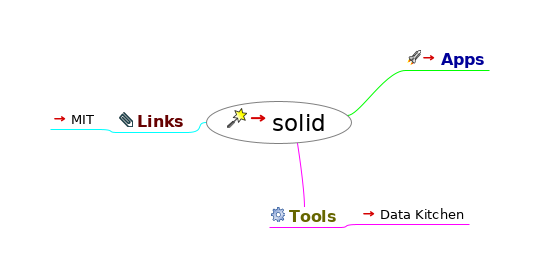
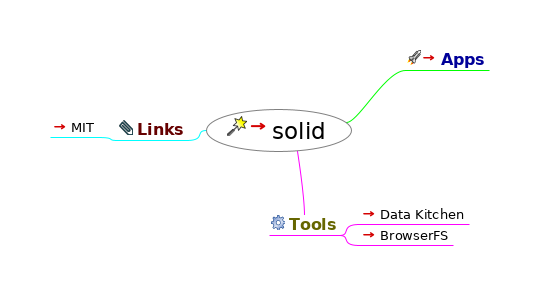
Add browserFS

diff --git a/index.html b/index.html
@@ -23,13 +23,14 @@
                    };
                };
           
-          --></script></head><body><h1>solid</h1><div style="width:96%;  padding:2%;  margin-bottom:10px;  border: 0px;  text-align:center;  vertical-align:center;"><img src="index.html_files/image.png" style="margin-bottom:10px; &#9;border: 0px; &#9;text-align:center; &#9;vertical-align:center;" alt="Imagemap" usemap="#fm_imagemap" /></div><map name="fm_imagemap" id="fm_imagemap"><area shape="rect" href="../tech/index.html" alt="solid" title="solid" coords="206,101,352,144" />
+          --></script></head><body><h1>solid</h1><div style="width:96%;  padding:2%;  margin-bottom:10px;  border: 0px;  text-align:center;  vertical-align:center;"><img src="index.html_files/image.png" style="margin-bottom:10px; &#9;border: 0px; &#9;text-align:center; &#9;vertical-align:center;" alt="Imagemap" usemap="#fm_imagemap" /></div><map name="fm_imagemap" id="fm_imagemap"><area shape="rect" href="../tech/index.html" alt="solid" title="solid" coords="206,109,352,152" />
 <area shape="rect" href="https://solidapps.org/" alt="Apps" title="Apps" coords="405,50,489,70" />
-<area shape="rect" href="#FMID_1810859973FM" alt="Tools" title="Tools" coords="269,207,340,227" />
+<area shape="rect" href="#FMID_1810859973FM" alt="Tools" title="Tools" coords="269,215,340,235" />
 <area shape="rect" href="https://github.com/solid/data-kitchen" alt="Data Kitchen" title="Data Kitchen" coords="359,206,469,224" />
-<area shape="rect" href="#FMID_777477932FM" alt="Links" title="Links" coords="117,112,187,132" />
-<area shape="rect" href="https://solid.mit.edu" alt="MIT" title="MIT" coords="50,111,98,129" />
+<area shape="rect" href="https://github.com/jvilk/BrowserFS" alt="BrowserFS" title="BrowserFS" coords="359,227,453,245" />
+<area shape="rect" href="#FMID_777477932FM" alt="Links" title="Links" coords="117,120,187,140" />
+<area shape="rect" href="https://solid.mit.edu" alt="MIT" title="MIT" coords="50,119,98,137" />
 </map>
 
-<div class="node"><img src="index.html_files/hide.png" class="hideshow" alt="hide" onClick="toggle(&quot;N65543&quot;)" id="imgN65543" /><img src="index.html_files/icons/wizard.svg" alt="wizard" /> <a id="FMID_237352286FM" /><div class="nodecontent" style="color:#000000;font-size:150%;"><a href="../tech/index.html">solid</a> <a href="../tech/index.html"><img src="index.html_files/ilink.png" alt="User Link" style="border-width:0" /></a></div><div class="content" id="N65543"><div class="node"><img src="index.html_files/leaf.png" class="hideshow" alt="leaf" /><img src="index.html_files/icons/launch.svg" alt="launch" /> <a id="FMID_527312312FM" /><div class="nodecontent" style="color:#000099;font-size:100%;font-weight:bold;"><a href="https://solidapps.org/">Apps</a> <a href="https://solidapps.org/"><img src="index.html_files/ilink.png" alt="User Link" style="border-width:0" /></a></div></div><div class="node"><img src="index.html_files/hide.png" class="hideshow" alt="hide" onClick="toggle(&quot;N66490&quot;)" id="imgN66490" /><img src="index.html_files/icons/executable.svg" alt="executable" /> <a id="FMID_1810859973FM" /><div class="nodecontent" style="color:#666600;font-size:100%;font-weight:bold;">Tools</div><div class="content" id="N66490"><div class="node"><img src="index.html_files/leaf.png" class="hideshow" alt="leaf" /><a id="FMID_464490085FM" /><div class="nodecontent" style="color:#000000;font-size:83%;"><a href="https://github.com/solid/data-kitchen">Data Kitchen</a> <a href="https://github.com/solid/data-kitchen"><img src="index.html_files/ilink.png" alt="User Link" style="border-width:0" /></a></div></div></div></div><div class="node"><img src="index.html_files/hide.png" class="hideshow" alt="hide" onClick="toggle(&quot;N66571&quot;)" id="imgN66571" /><img src="index.html_files/icons/attach.svg" alt="attach" /> <a id="FMID_777477932FM" /><div class="nodecontent" style="color:#660000;font-size:100%;font-weight:bold;">Links</div><div class="content" id="N66571"><div class="node"><img src="index.html_files/leaf.png" class="hideshow" alt="leaf" /><a id="FMID_671925292FM" /><div class="nodecontent" style="color:#000000;font-size:83%;"><a href="https://solid.mit.edu">MIT</a> <a href="https://solid.mit.edu"><img src="index.html_files/ilink.png" alt="User Link" style="border-width:0" /></a></div></div></div></div></div></div>
+<div class="node"><img src="index.html_files/hide.png" class="hideshow" alt="hide" onClick="toggle(&quot;N65543&quot;)" id="imgN65543" /><img src="index.html_files/icons/wizard.svg" alt="wizard" /> <a id="FMID_237352286FM" /><div class="nodecontent" style="color:#000000;font-size:150%;"><a href="../tech/index.html">solid</a> <a href="../tech/index.html"><img src="index.html_files/ilink.png" alt="User Link" style="border-width:0" /></a></div><div class="content" id="N65543"><div class="node"><img src="index.html_files/leaf.png" class="hideshow" alt="leaf" /><img src="index.html_files/icons/launch.svg" alt="launch" /> <a id="FMID_527312312FM" /><div class="nodecontent" style="color:#000099;font-size:100%;font-weight:bold;"><a href="https://solidapps.org/">Apps</a> <a href="https://solidapps.org/"><img src="index.html_files/ilink.png" alt="User Link" style="border-width:0" /></a></div></div><div class="node"><img src="index.html_files/hide.png" class="hideshow" alt="hide" onClick="toggle(&quot;N66490&quot;)" id="imgN66490" /><img src="index.html_files/icons/executable.svg" alt="executable" /> <a id="FMID_1810859973FM" /><div class="nodecontent" style="color:#666600;font-size:100%;font-weight:bold;">Tools</div><div class="content" id="N66490"><div class="node"><img src="index.html_files/leaf.png" class="hideshow" alt="leaf" /><a id="FMID_464490085FM" /><div class="nodecontent" style="color:#000000;font-size:83%;"><a href="https://github.com/solid/data-kitchen">Data Kitchen</a> <a href="https://github.com/solid/data-kitchen"><img src="index.html_files/ilink.png" alt="User Link" style="border-width:0" /></a></div></div><div class="node"><img src="index.html_files/leaf.png" class="hideshow" alt="leaf" /><a id="FMID_254470917FM" /><div class="nodecontent" style="color:#000000;font-size:83%;"><a href="https://github.com/jvilk/BrowserFS">BrowserFS</a> <a href="https://github.com/jvilk/BrowserFS"><img src="index.html_files/ilink.png" alt="User Link" style="border-width:0" /></a></div></div></div></div><div class="node"><img src="index.html_files/hide.png" class="hideshow" alt="hide" onClick="toggle(&quot;N66608&quot;)" id="imgN66608" /><img src="index.html_files/icons/attach.svg" alt="attach" /> <a id="FMID_777477932FM" /><div class="nodecontent" style="color:#660000;font-size:100%;font-weight:bold;">Links</div><div class="content" id="N66608"><div class="node"><img src="index.html_files/leaf.png" class="hideshow" alt="leaf" /><a id="FMID_671925292FM" /><div class="nodecontent" style="color:#000000;font-size:83%;"><a href="https://solid.mit.edu">MIT</a> <a href="https://solid.mit.edu"><img src="index.html_files/ilink.png" alt="User Link" style="border-width:0" /></a></div></div></div></div></div></div>
 </body></html>

diff --git a/index.mm b/index.mm
@@ -75,6 +75,7 @@
 <font SIZE="12" BOLD="true"/>
 <edge COLOR="#ff00ff"/>
 <node TEXT="Data Kitchen" ID="ID_464490085" CREATED="1573024190055" MODIFIED="1573024327376" LINK="https://github.com/solid/data-kitchen"/>
+<node TEXT="BrowserFS" ID="ID_254470917" CREATED="1573155072181" MODIFIED="1573155078101" LINK="https://github.com/jvilk/BrowserFS"/>
 </node>
 <node TEXT="Links" POSITION="left" ID="ID_777477932" CREATED="1572063875737" MODIFIED="1572064427848" COLOR="#660000">
 <icon BUILTIN="attach"/>
